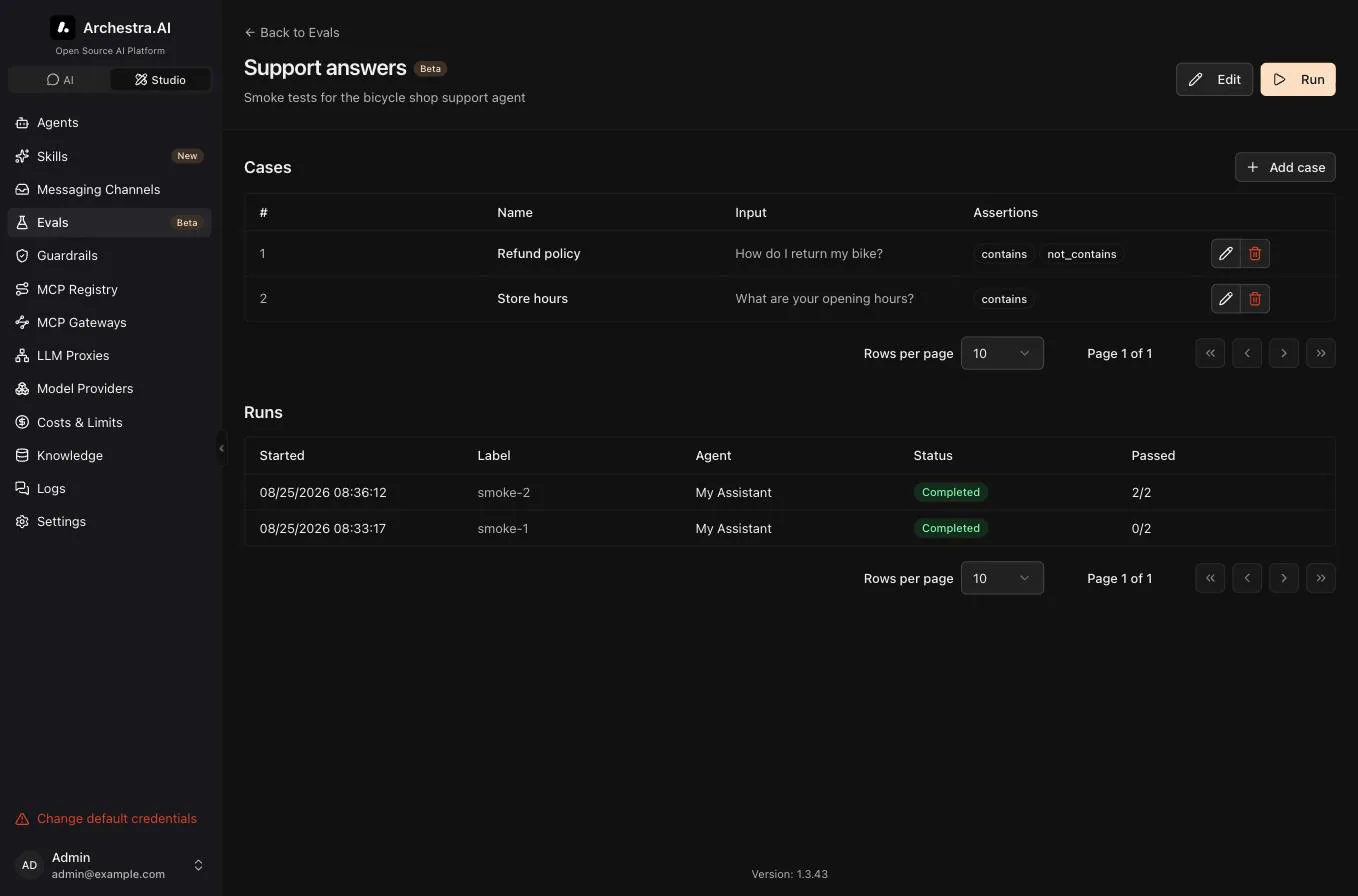
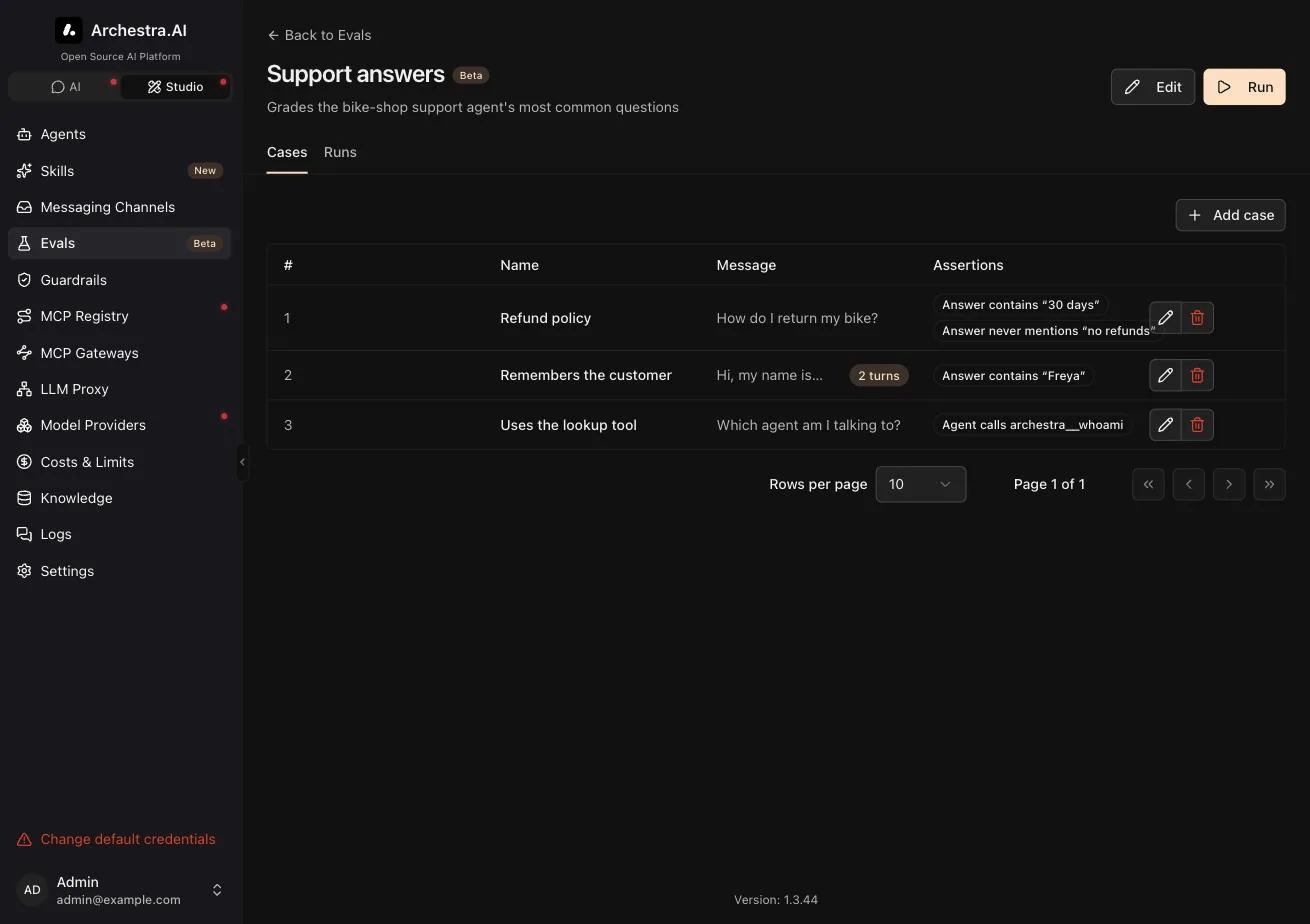
docs(evals): multi-turn and comparison docs with refreshed screenshots

diff --git a/docs/pages/platform-evals.md b/docs/pages/platform-evals.md
@@ -38,6 +38,8 @@ Press **Run**, pick one or more agents, and optionally label the run — a CI bu
 
 Picking several agents creates one run per agent and groups them into a comparison — one row per agent with status, pass rate, and cost. Use it to try the same suite against different models or prompt variants.
 
+![Run comparison](/docs/automated_screenshots/platform-evals_run-comparison.webp)
+
 A run snapshots the suite's cases when it starts. Editing a case afterwards changes future runs, not the one in flight.
 
 ![Run results](/docs/automated_screenshots/platform-evals_run-results.webp)
